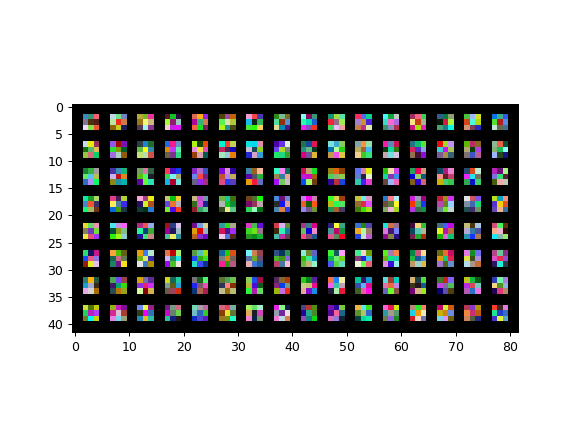
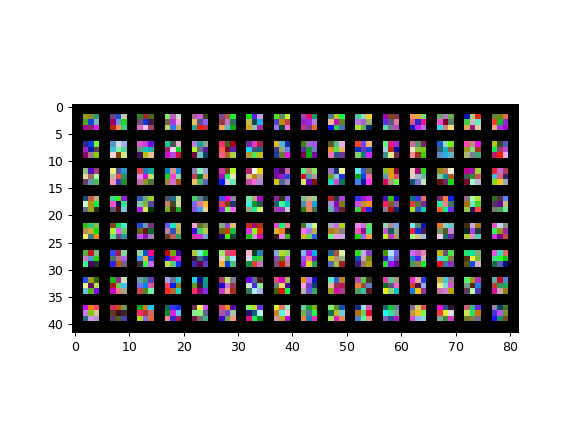
add commandline arguments for experiments hyperparameters config

Changed region(s): [[0.125, 0.2407, 0.9062, 0.7523]]

diff --git a/code/ex3_convnet.py b/code/ex3_convnet.py
@@ -34,7 +34,7 @@ parser.add_argument('-e', '--epoch', type=int, default=20, help='Number of epoch
 parser.add_argument('-n', '--norm', type=bool, default=False, help='Turn on Batch Normalization')
 parser.add_argument('-d', '--dropout', type=float, default=None, help='Specify dropout p-value')
 parser.add_argument('-j', '--jitter', type=float, default=0.2, help='Specify ColorJitter param')
-parser.add_argument('-a', '--augment', type=int, default=4, help='How many data augmentation techniques to add to '
+parser.add_argument('-a', '--augment', type=int, default=0, help='How many data augmentation techniques to add to '
                                                                  'compose')
 parser.add_argument('-v', '--disp', type=bool, default=False, help='Show plots to display')
 
@@ -44,7 +44,7 @@ args = parser.parse_args()
 norm_layer = args.norm
 drop_out = args.dropout
 
-print(args)
+print(f'CL-Arguments: {args}')
 
 input_size = 3
 num_classes = 10
@@ -57,7 +57,7 @@ reg = 0.001
 num_training = 49000
 num_validation = 1000
 # norm_layer = None
-print(hidden_size)
+print(f'hidden sizes: {hidden_size}')
 
 # -------------------------------------------------
 # Load the CIFAR-10 dataset
@@ -286,6 +286,7 @@ PrintModelSize(model)
 # Visualize the filters before training
 # ======================================================================================
 VisualizeFilter(model)
+
 
 # Loss and optimizer
 criterion = nn.CrossEntropyLoss()

diff --git a/README.md b/README.md
@@ -15,7 +15,7 @@
 ``python ex3_convnet.py -d 0.5``
    
 3. Q3.A, To specify how many transform methods to add to compose function for data augmentation, specify int
-values between [1,4]
+values between [0,4]; 0 deselects all methods.
    
    
 ## Configure Command Line Arguments for Experiments
